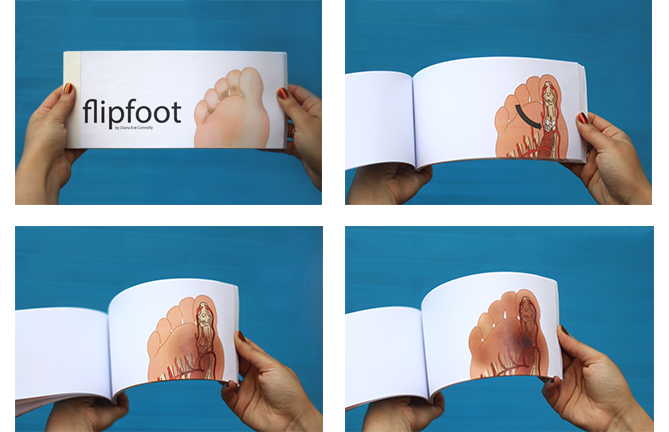
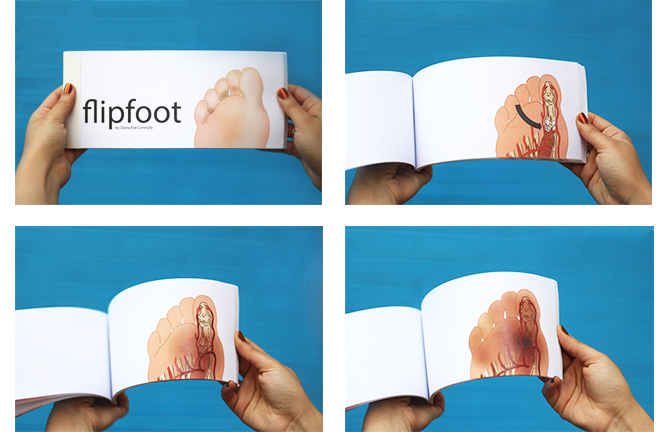
make flip foot 3D thumbnail, brighten

diff --git a/design.html b/design.html
@@ -266,25 +266,25 @@
                 
                 <div class="row">
                     <div class="col-sm-4">
-                        <a class="fancybox-effects-c" href="assets/flipfoot_grid.png" title="<h2>Flipfoot Flipbook</h2>Adobe Photoshop and Illustrator, on paper">
+                        <a class="fancybox-effects-c" href="assets/flipfoot_grid.png" title="<h2>Flipfoot Flipbook</h2>Complex Regional Pain Syndrome progression shown through flipbook, Adobe Photoshop and Illustrator">
                         <img src="assets/flippy_s.png" class="img-responsive img-centered" alt="">
                         </a>  
-                    </div>
-                    <div class="col-sm-4">
-                        <a class="fancybox-effects-c" href="assets/designPage/Dad.jpg" title="<h2>Super Scrubs Poster</h2>Adobe Photoshop and Illustrator">
-                        <img src="assets/designPage/Dad_s.jpg" class="img-responsive img-centered" alt="">
-                        </a> 
                     </div>
                     <div class="col-sm-4">
                         <a class="fancybox-effects-c" href="assets/designPage/darwin.png" title="<h2>Darwinian Family Portrait</h2>Adobe Photoshop - my family's noses on Darwinian finches">
                         <img src="assets/designPage/darwin_s.png" class="img-responsive img-centered" alt="">
                         </a>                                
                     </div>
-                </div>
-                <div class="row">
                     <div class="col-sm-4">
                         <a class="fancybox-effects-c" href="assets/designPage/blueWave.jpg" title="<h2>Invisible Beauty</h2>Scanning Electron Microscope photo of miniscule fern particle colorized in Adobe Photoshop">
                         <img src="assets/designPage/blueWave_s.jpg" class="img-responsive img-centered" alt="">
+                        </a> 
+                    </div>
+                </div>
+                <div class="row">
+                    <div class="col-sm-4">
+                        <a class="fancybox-effects-c" href="assets/designPage/Dad.jpg" title="<h2>Super Scrubs Poster</h2>Adobe Photoshop and Illustrator">
+                        <img src="assets/designPage/Dad_s.jpg" class="img-responsive img-centered" alt="">
                         </a> 
                     </div>
                     <div class="col-sm-4">

diff --git a/index.html b/index.html
@@ -64,7 +64,7 @@
                                 <br>3D
                             </div>
                         </div>
-                        <img src="assets/3dPage/brainThumbnail.png" class="img-responsive" alt="">
+                        <img src="assets/flipfoot_thumbnail.png" class="img-responsive" alt="">
                     </a>
                 </div>
                 <div class="col-sm-4 portfolio-item">
